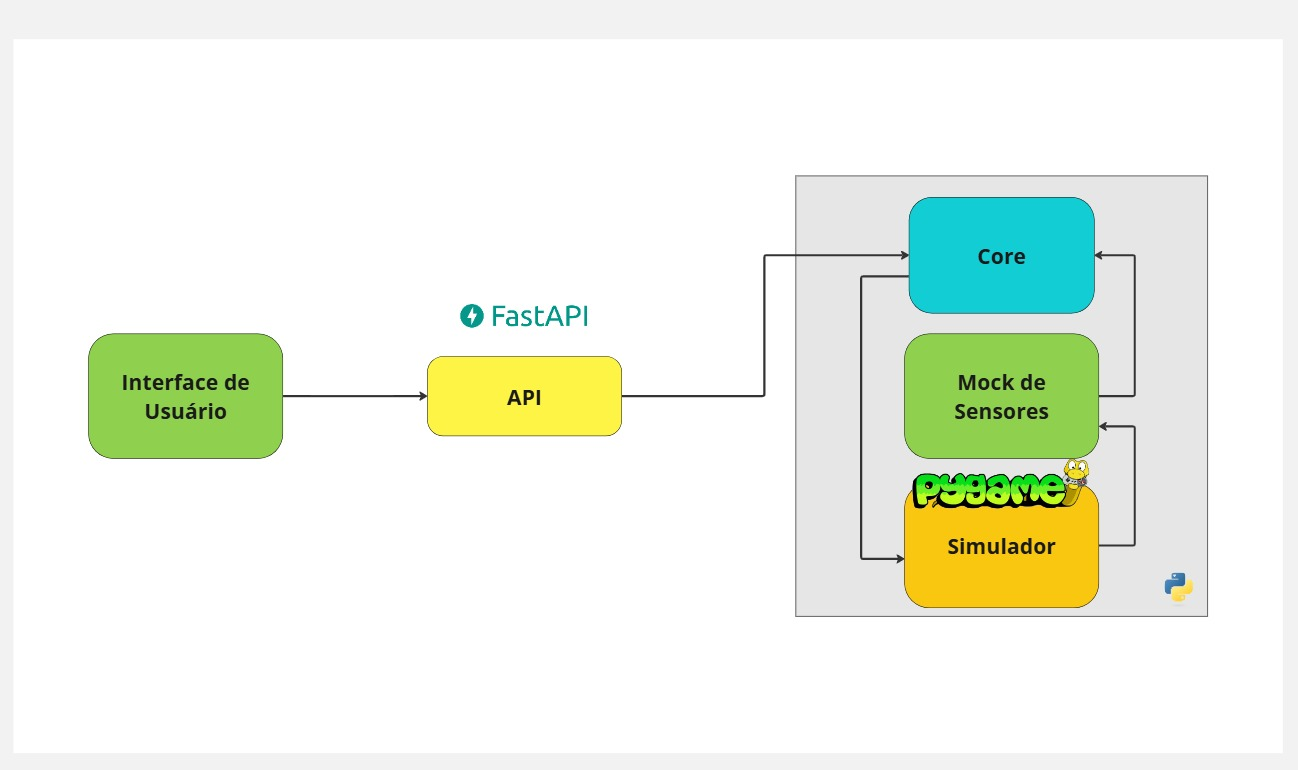
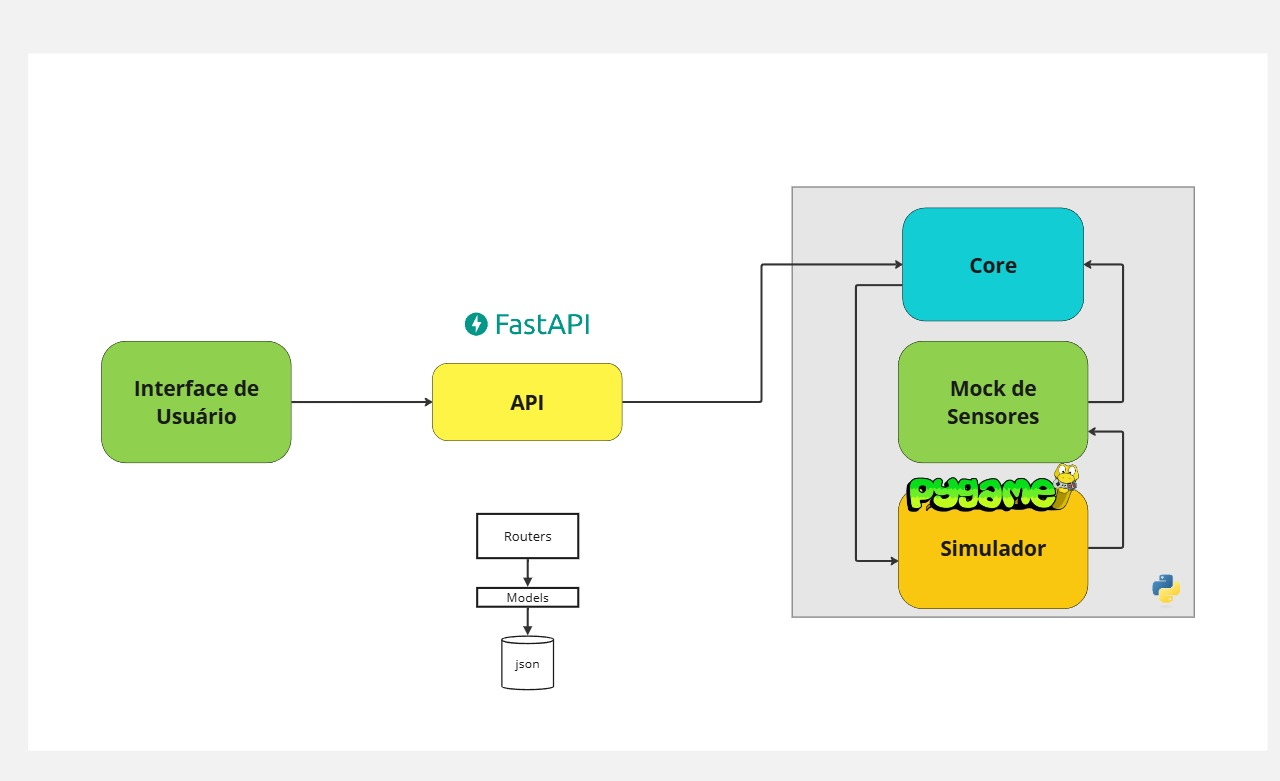
docs: incrementa documentação de arquitetura

diff --git a/docs/arquitetura.md b/docs/arquitetura.md
@@ -1,4 +1,4 @@
-# Aruiteturara
+# Aruitetura
 
 ## Introdução
 A arquitetura apresentada na imagem abaixo consiste em um sistema de corte de grama automatizado, que funciona de maneira autônoma, detectando obstáculos, otimizando rotas e garantindo um corte preciso sem intervenção humana direta. O sistema é composto por tres serviços principais: a interface de usuário, a API de comunicação e o simulador de ambiente.
@@ -13,6 +13,18 @@ A interface de usuário é responsável por permitir a interação com o sistema
 ### API de Comunicação
 
 A API de comunicação é responsável por receber as requisições da interface de usuário e repassá-las para o simulador de ambiente. Ela é implementada em Python com o uso do FastAPI, um framework web de alto desempenho.
+
+Componentes da API:
+
+* Routers: Os routers organizam os diferentes endpoints em módulos, facilitando a manutenção e escalabilidade do código.
+* Models: Definem a estrutura dos dados trocados entre a interface e a API. Esses modelos são usados para validação e serialização/deserialização de dados.
+* JSON: Os dados processados pela API geralmente são armazenados ou trocados em formato JSON, um padrão leve e amplamente suportado.
+
+Funcionalidades Principais da API:
+
+* Receber solicitações da Interface de Usuário.
+* Processar e validar os dados de entrada usando os Models.
+* Disponibilizar as solicitação para o Core do Simulador de Ambiente.
 
 ### Simulador de Ambiente
 
